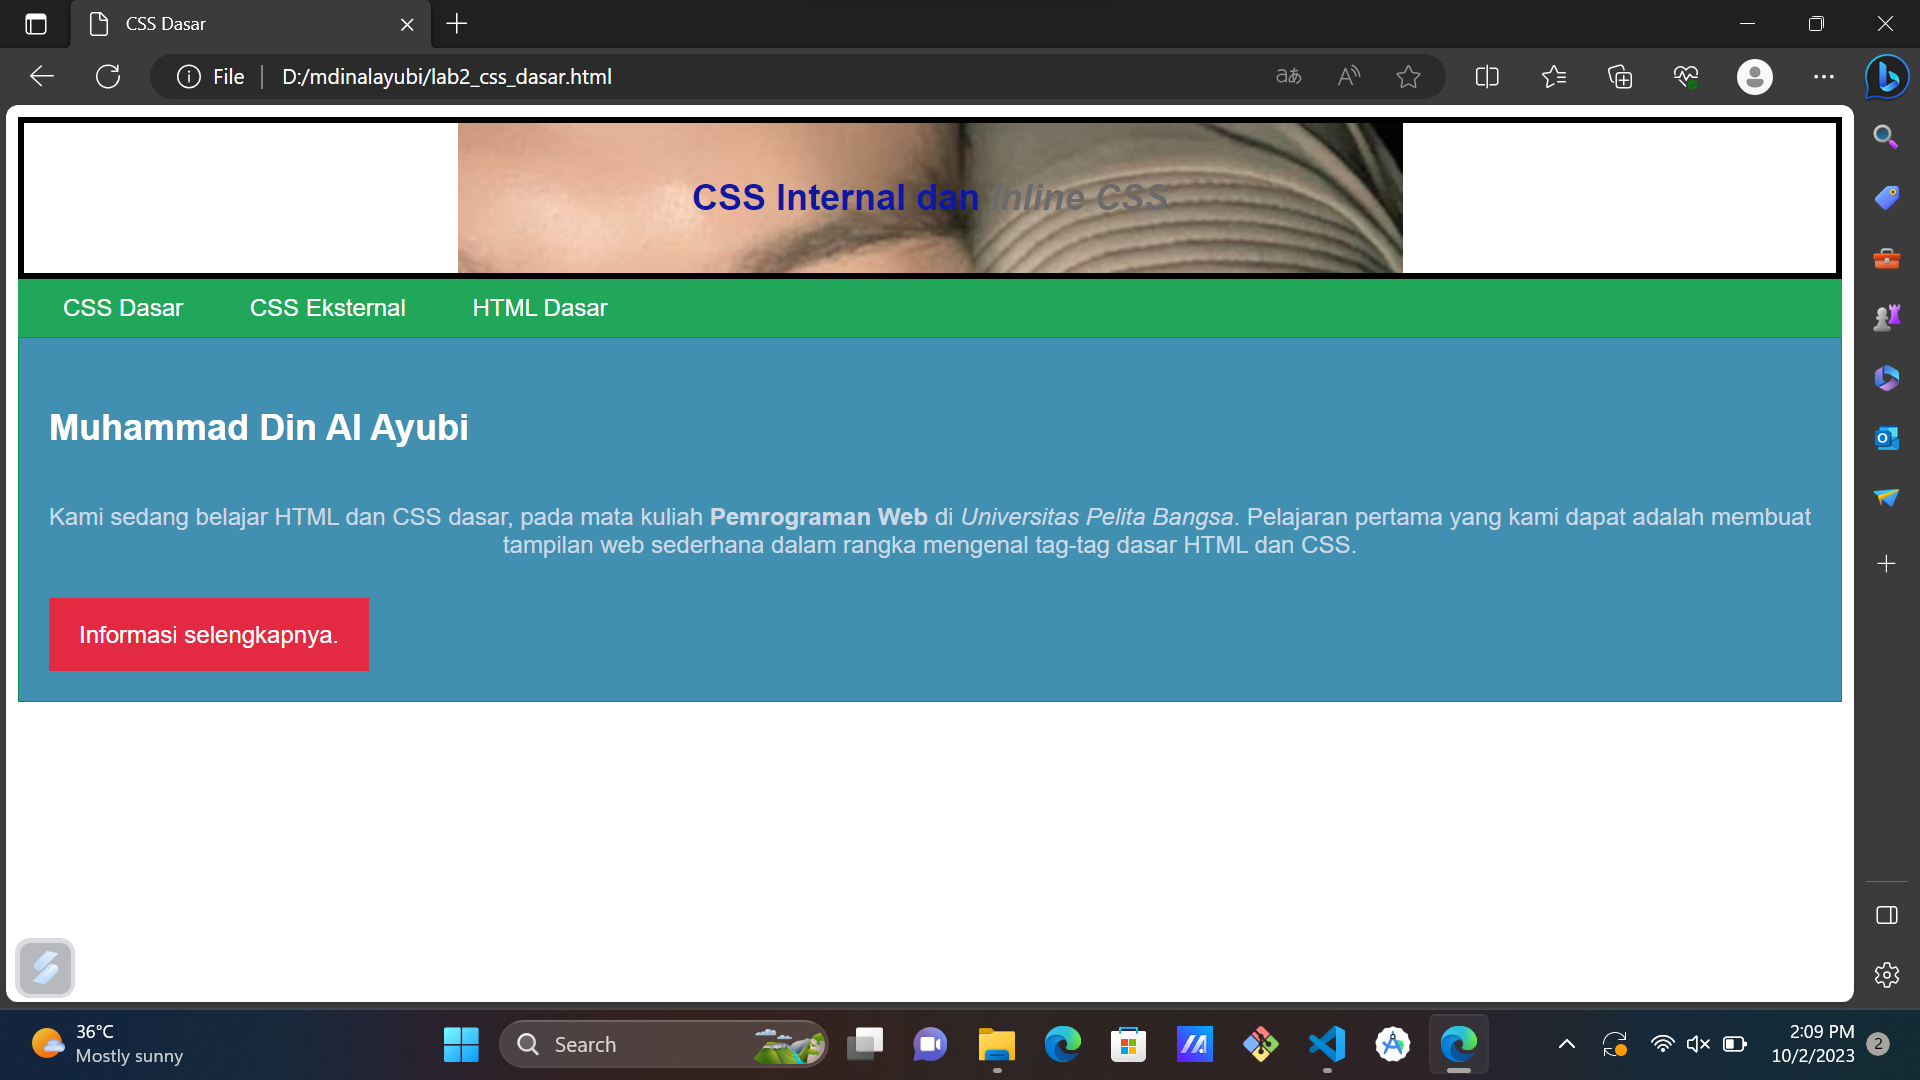
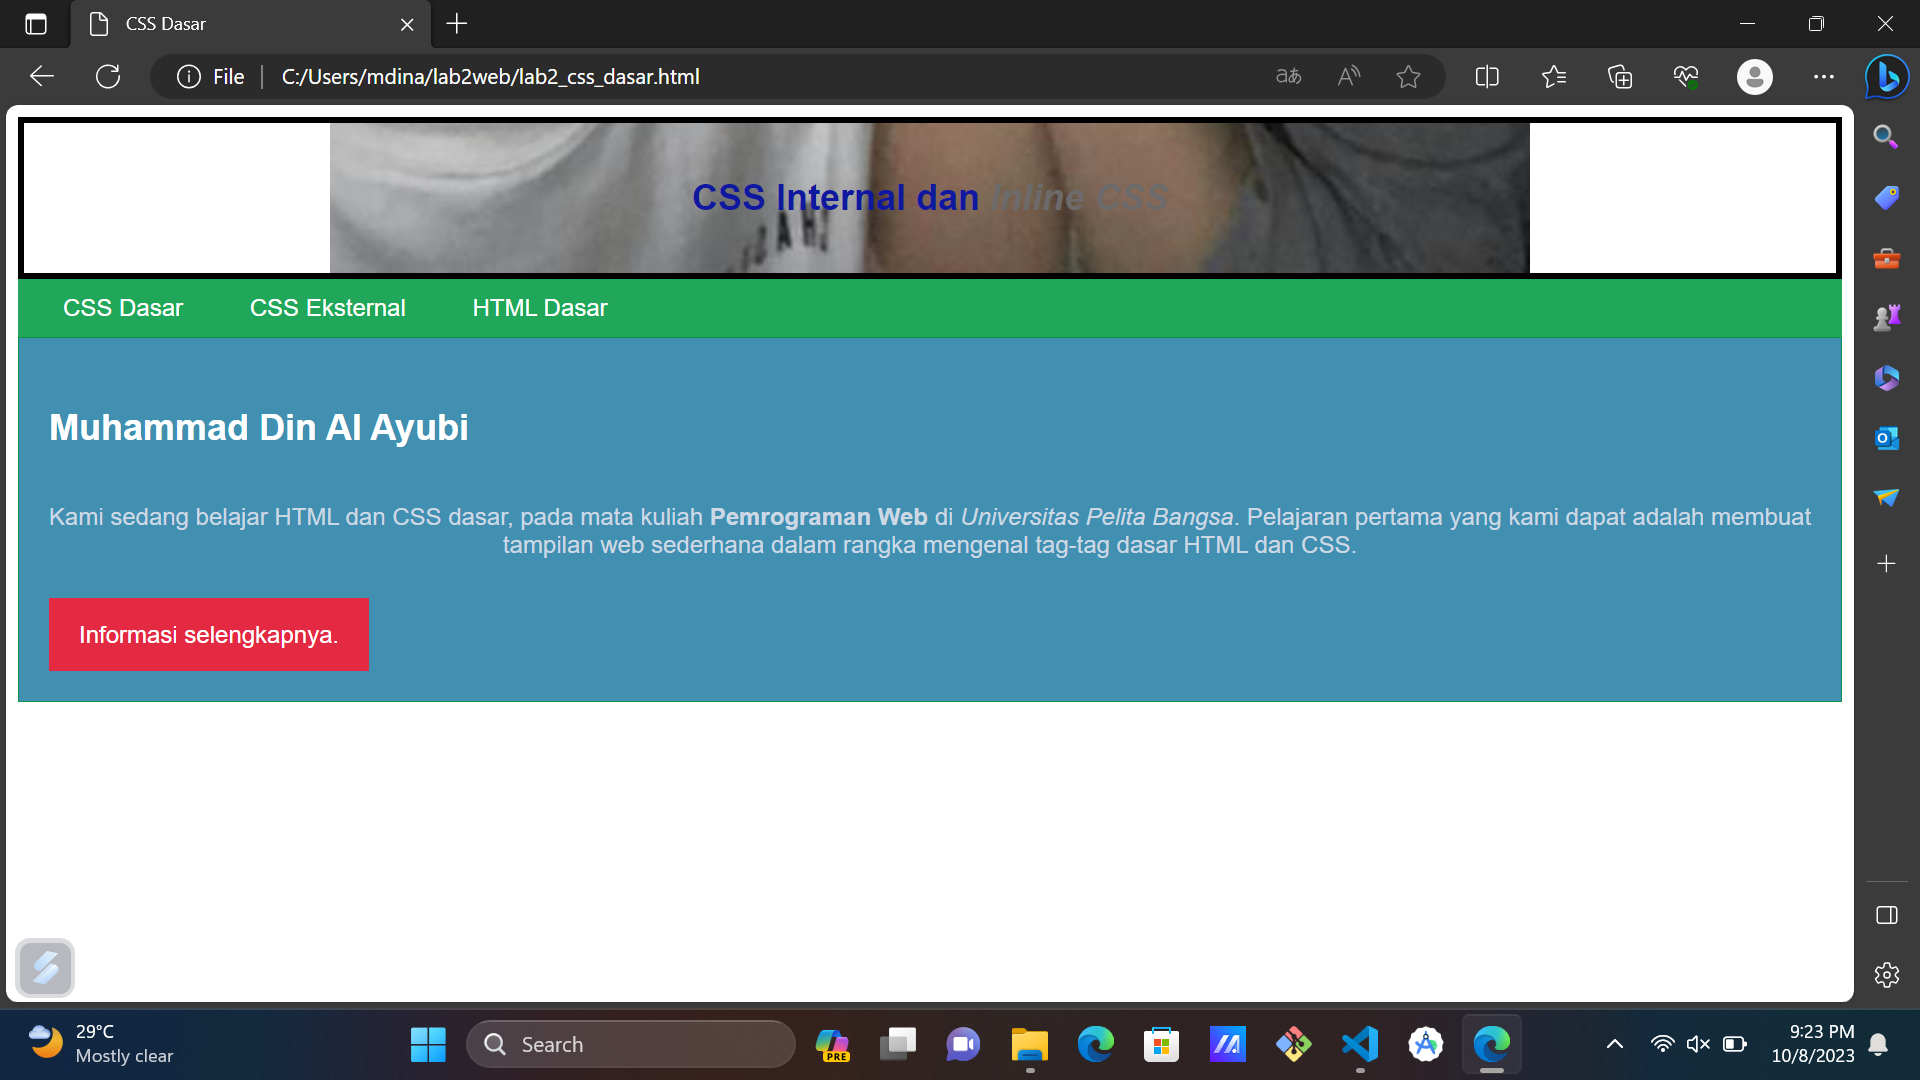
Update

diff --git a/style_eksternal.css b/style_eksternal.css
@@ -1,7 +1,7 @@
 header{
-    background-image: url(d:/mdinalayubi/ayubi.jpg);
-    background-position: center center;
-    background-size: 630px;
+    background-image: url(d:/mdinalayubi/ay.jpg);
+    background-position: bottom center;
+    background-size: 800px;
     background-repeat: no-repeat;
     border: 4px solid #000;
 }
